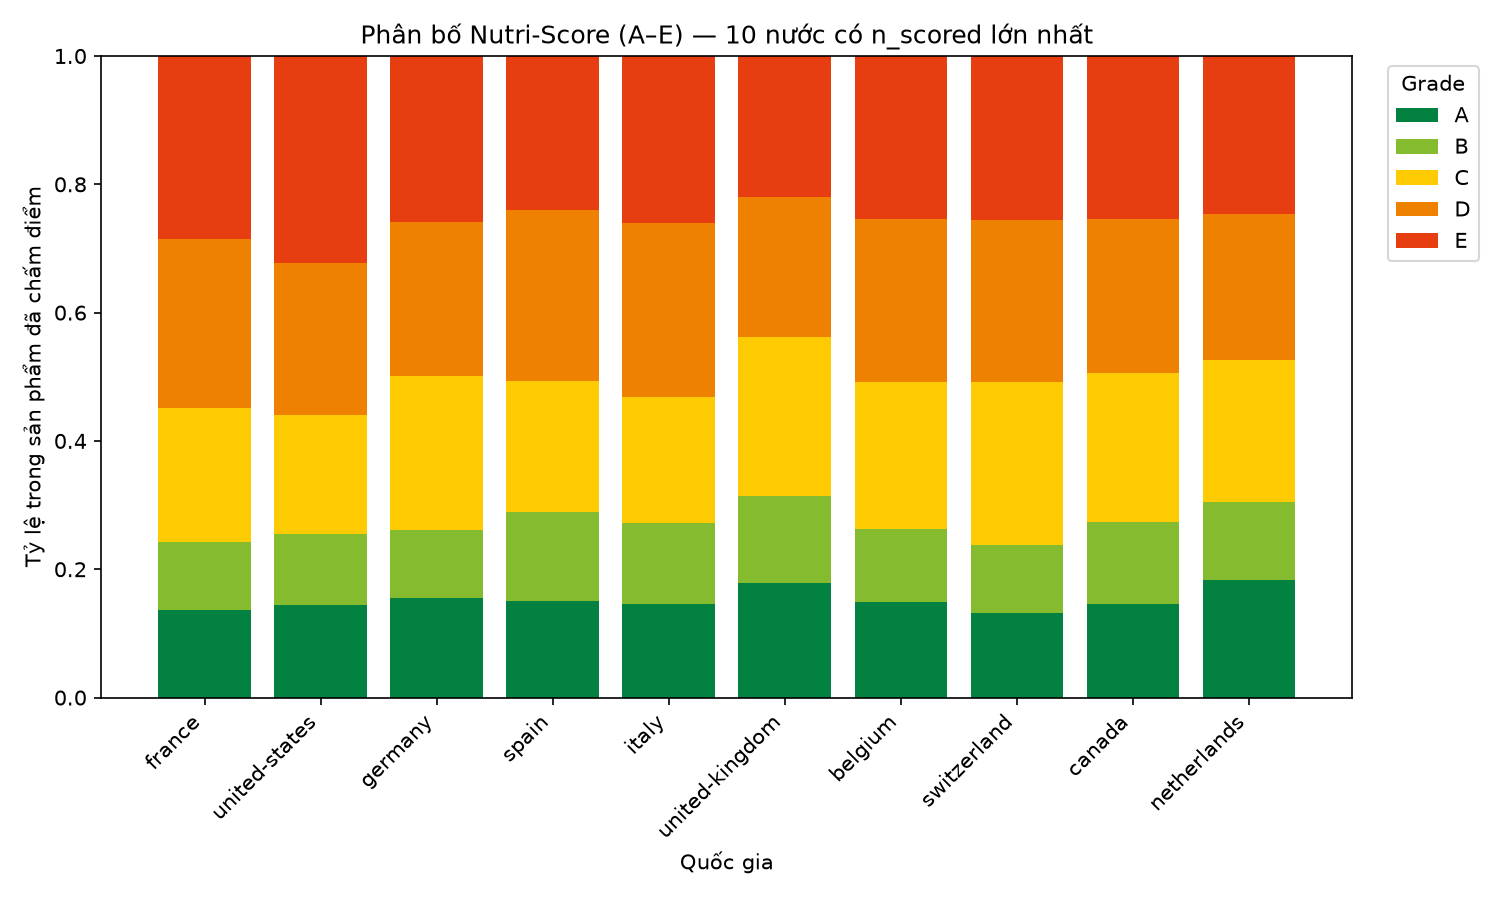
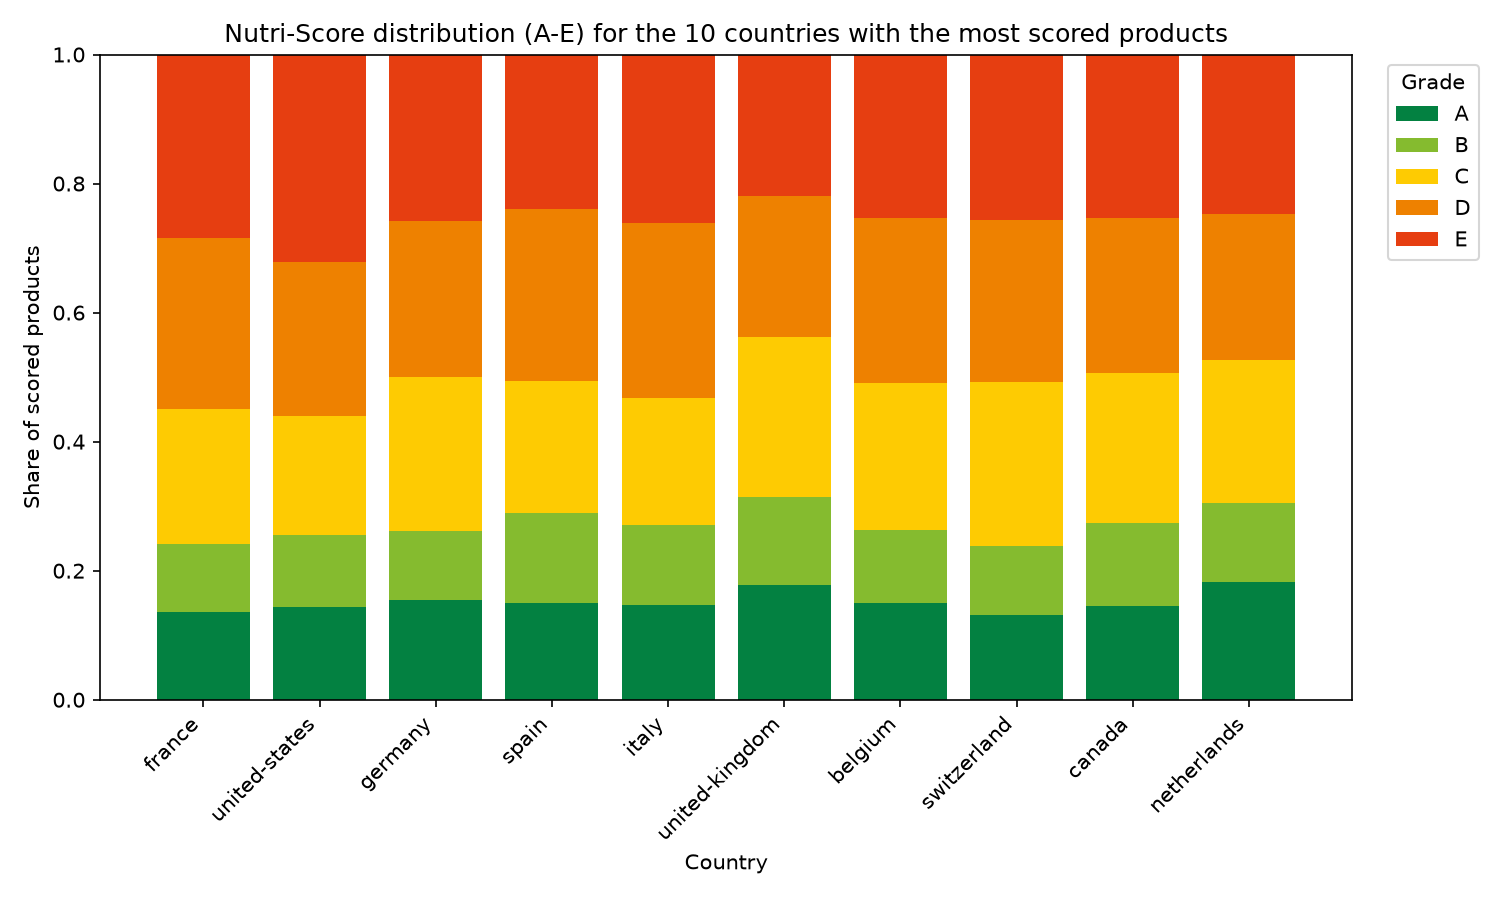
docs: English chart labels, regenerated images, README

diff --git a/README.md b/README.md
@@ -1,0 +1,203 @@
+# Open Food Facts Analytics Pipeline
+
+An end-to-end data engineering and analytics project: ingest the full [Open Food Facts](https://world.openfoodfacts.org/data) product dump (~4.8 million products), clean and model it in PostgreSQL, validate it with automated data quality checks, and analyze nutrition quality across countries, categories and processing levels.
+
+Everything runs locally with one command: `python src/run_pipeline.py`.
+
+## Highlights
+
+- **Layered ELT design** (`raw -> staging -> core -> mart`) in PostgreSQL 16, run with Docker.
+- **Fast bulk load** of a 111-column Parquet file with DuckDB (32 selected columns, nested fields kept as JSON in raw).
+- **Idempotent pipeline**: every step rebuilds its own tables, so re-running gives the same result.
+- **Data quality gate**: 14 automated checks run before the analytics layer is refreshed; the pipeline stops if any error-level check fails.
+- **Real-world data issues handled**: duplicate and empty barcodes, NUL bytes, `Infinity`/`NaN` inside JSON, epoch timestamps, invalid Nutri-Score values.
+
+## Key findings
+
+> Numbers come from the data snapshot loaded in October 2026 and will change as Open Food Facts is updated.
+
+- **Only about 30% of products have a real Nutri-Score (A-E).** Around 67% are `unknown`, so every comparison is made within the scored subset.
+- **Across the 10 countries with the most scored products, 44-56% of scored products are graded D or E**, and only 24-31% are A or B. The UK has the lowest share of D/E (43.7%); the US has the highest (56.0%).
+- **More processed food scores worse.** Among ~873k products with both NOVA and Nutri-Score, 75% of NOVA 1 (unprocessed) products are A/B, versus 14% of NOVA 4 (ultra-processed); D/E rises from 10% to 63%. This is a correlation, and both indicators are derived from product composition.
+- **Data completeness is falling over time.** The share of newly created products that have a Nutri-Score dropped from ~73% (2012) to 6% (2026, partial year) while the number of new products per year grew from ~4k to 600k+.
+
+## Architecture
+
+```mermaid
+flowchart LR
+    SRC["Open Food Facts<br/>Parquet dump"] -->|extract.py| FILE["data/raw/food.parquet"]
+    FILE -->|"load_raw.py (DuckDB)"| RAW[("raw.off_products")]
+    RAW -->|10_staging.sql| STG[("staging")]
+    STG -->|20_core.sql| CORE[("core")]
+    CORE --> QC{"Quality checks<br/>90_quality_checks.sql"}
+    QC -->|pass| MART[("mart")]
+    QC -.->|fail: pipeline stops| STOP["Stop"]
+    MART --> NB["Notebook: charts and insights"]
+```
+
+| Layer | Purpose |
+|---|---|
+| `raw` | Near-original copy of the source (32 columns, nested fields as JSON, plus `_ingested_at` and `_source_file`). Never cleaned, so downstream logic can always be re-run. |
+| `staging` | Cleaning and typing: drop empty/duplicate barcodes, flag invalid barcodes, clean Nutri-Score, convert timestamps, extract the main product name and 8 nutrients per 100g. |
+| `core` | Dimensional-style model with primary keys, foreign keys and indexes. |
+| `mart` | Pre-aggregated tables built for specific analytical questions. |
+
+## Data model (core)
+
+```mermaid
+erDiagram
+    PRODUCT ||--o{ PRODUCT_CATEGORY : has
+    PRODUCT ||--o{ PRODUCT_COUNTRY : sold_in
+    PRODUCT ||--o| PRODUCT_NUTRITION : has
+    PRODUCT {
+        text product_code PK
+        boolean is_valid_barcode
+        text product_name
+        text brands
+        text nutriscore_grade_clean
+        smallint nova_group
+        timestamptz created_at
+    }
+    PRODUCT_CATEGORY {
+        text product_code PK
+        text category_tag PK
+        text category_name
+    }
+    PRODUCT_COUNTRY {
+        text product_code PK
+        text country_tag PK
+        text country_name
+    }
+    PRODUCT_NUTRITION {
+        text product_code PK
+        numeric energy_kcal_100g
+        numeric sugars_100g
+        numeric salt_100g
+        numeric fat_100g
+    }
+```
+
+| Table | Grain | Rows (Oct 2026 snapshot) |
+|---|---|---|
+| `core.product` | 1 product | 4,788,236 |
+| `core.product_category` | 1 product x 1 category | 10,373,140 |
+| `core.product_country` | 1 product x 1 country | 4,965,230 |
+| `core.product_nutrition` | 1 product | 3,693,167 |
+
+Mart tables: `country_nutriscore`, `category_nutrition`, `nova_vs_nutriscore`, `brand_scores`, `country_completeness`, `products_by_year`.
+
+## Tech stack
+
+Python 3.11 · DuckDB · PostgreSQL 16 · Docker Compose · SQL · pandas · matplotlib · Jupyter
+
+## Project structure
+
+```
+.
+├── docker-compose.yml        # PostgreSQL 16
+├── .env.example              # connection settings (copy to .env)
+├── requirements.txt
+├── src/
+│   ├── config.py             # settings from .env
+│   ├── extract.py            # download the Parquet dump
+│   ├── load_raw.py           # Parquet -> raw.off_products (DuckDB)
+│   ├── run_sql.py            # run .sql files in a transaction
+│   ├── run_checks.py         # data quality checks runner
+│   └── run_pipeline.py       # run everything in order
+├── sql/
+│   ├── 00_init_schemas.sql
+│   ├── 10_staging.sql
+│   ├── 20_core.sql
+│   ├── 30_mart.sql
+│   └── 90_quality_checks.sql
+├── notebooks/01_analysis.ipynb
+└── docs/                     # data notes, schema, charts
+```
+
+## Getting started
+
+**Requirements:** Docker Desktop, Python 3.11+, and roughly 15 GB of free disk space (the Parquet file is several GB and the raw table is about 5.4 GB).
+
+```bash
+git clone https://github.com/<your-username>/off-food-analytics.git
+cd off-food-analytics
+
+cp .env.example .env            # Windows: Copy-Item .env.example .env
+# edit .env and set POSTGRES_PASSWORD
+
+docker compose up -d            # wait until the container is healthy
+
+python -m venv .venv
+source .venv/bin/activate       # Windows: .\.venv\Scripts\Activate.ps1
+pip install -r requirements.txt
+
+python src/run_pipeline.py      # full run: roughly 30-60 minutes depending on hardware
+```
+
+Useful options:
+
+```bash
+python src/run_pipeline.py --dry-run          # print the steps, run nothing
+python src/run_pipeline.py --from core        # resume from a step
+python src/run_pipeline.py --force-extract    # re-download the Parquet file
+python src/run_pipeline.py --sample 100000    # quick test; replaces ALL data with a sample
+```
+
+Explore the results:
+
+```bash
+docker exec -it off_postgres psql -U off_user -d off_db \
+  -c "SELECT country_name, n_scored, pct_a_b, pct_d_e FROM mart.country_nutriscore ORDER BY n_scored DESC LIMIT 10;"
+```
+
+Then open `notebooks/01_analysis.ipynb`.
+
+## Data quality
+
+`src/run_checks.py` runs 14 checks on the `core` layer. Error-level checks must return 0 violations or the pipeline stops before `mart` is rebuilt; warning-level checks are reported only.
+
+| Level | Checks |
+|---|---|
+| Error (9) | empty or duplicate product code, orphan rows in category/country/nutrition, invalid Nutri-Score, invalid NOVA group, nutrients out of range, `en:world` left in countries |
+| Warning (5) | saturated fat > fat (3,760 rows), sugars > carbohydrates (4,081 rows), created after modified, modified in the future, invalid barcode length (70,905 rows) |
+
+Warning rows are kept and flagged rather than silently changed.
+
+## Analysis
+
+The notebook answers six questions from the `mart` layer:
+
+1. How are Nutri-Score grades distributed across countries?
+2. Which food categories contain the most sugar?
+3. How do NOVA processing levels relate to Nutri-Score?
+4. Which brands score best and worst?
+5. How complete is the data per country?
+6. How has the database grown and changed in quality over time?
+
+![Nutri-Score by country](docs/img/q1_nutriscore_by_country.png)
+![NOVA vs Nutri-Score](docs/img/q3_nova_vs_nutriscore.png)
+![Products by year](docs/img/q6_products_by_year.png)
+
+## Limitations
+
+- The data is crowd-sourced, skewed toward France and the US, and Nutri-Score is missing for about 70% of products.
+- `categories_tags` is a hierarchy: one product belongs to several (on average about 5) overlapping categories, so categories must not be summed.
+- A product can be sold in several countries and counts once per country.
+- Brand analysis uses only the first brand listed in the `brands` field, and brand ranking mostly reflects the product category a brand sells.
+- A few source strings contain NUL characters that PostgreSQL cannot store; they are removed during loading.
+- Findings show correlations in a convenience dataset, not representative market statistics.
+
+## Roadmap
+
+- Incremental loads using Open Food Facts delta exports
+- Scheduling and orchestration with Airflow
+- Transformations and tests with dbt
+- BI dashboard (Power BI)
+
+## Data source and license
+
+This project contains information from [Open Food Facts](https://world.openfoodfacts.org/data), made available under the [Open Database License (ODbL)](https://opendatacommons.org/licenses/odbl/1-0/). The data itself is not included in this repository; it is downloaded by `src/extract.py`.
+
+## Author
+
+<Your name> · <LinkedIn or GitHub link>
